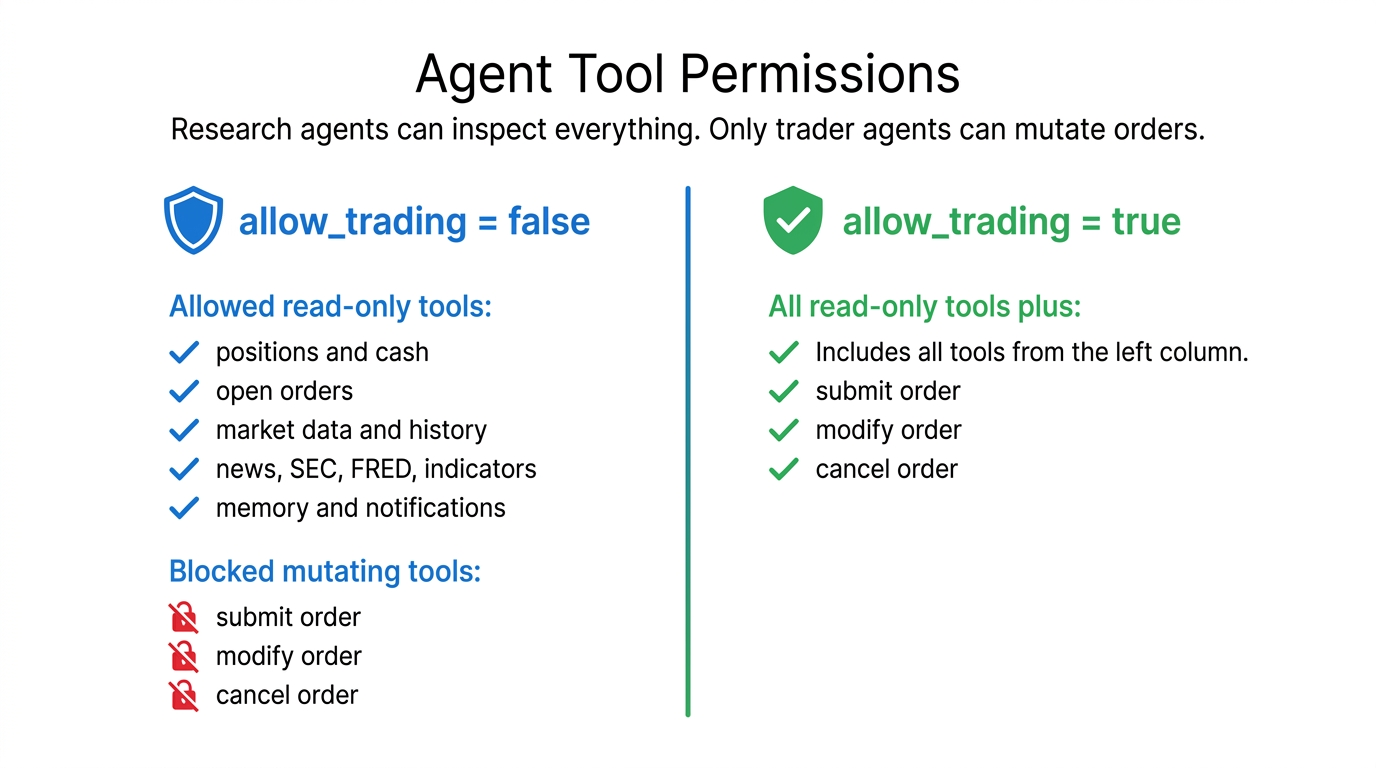
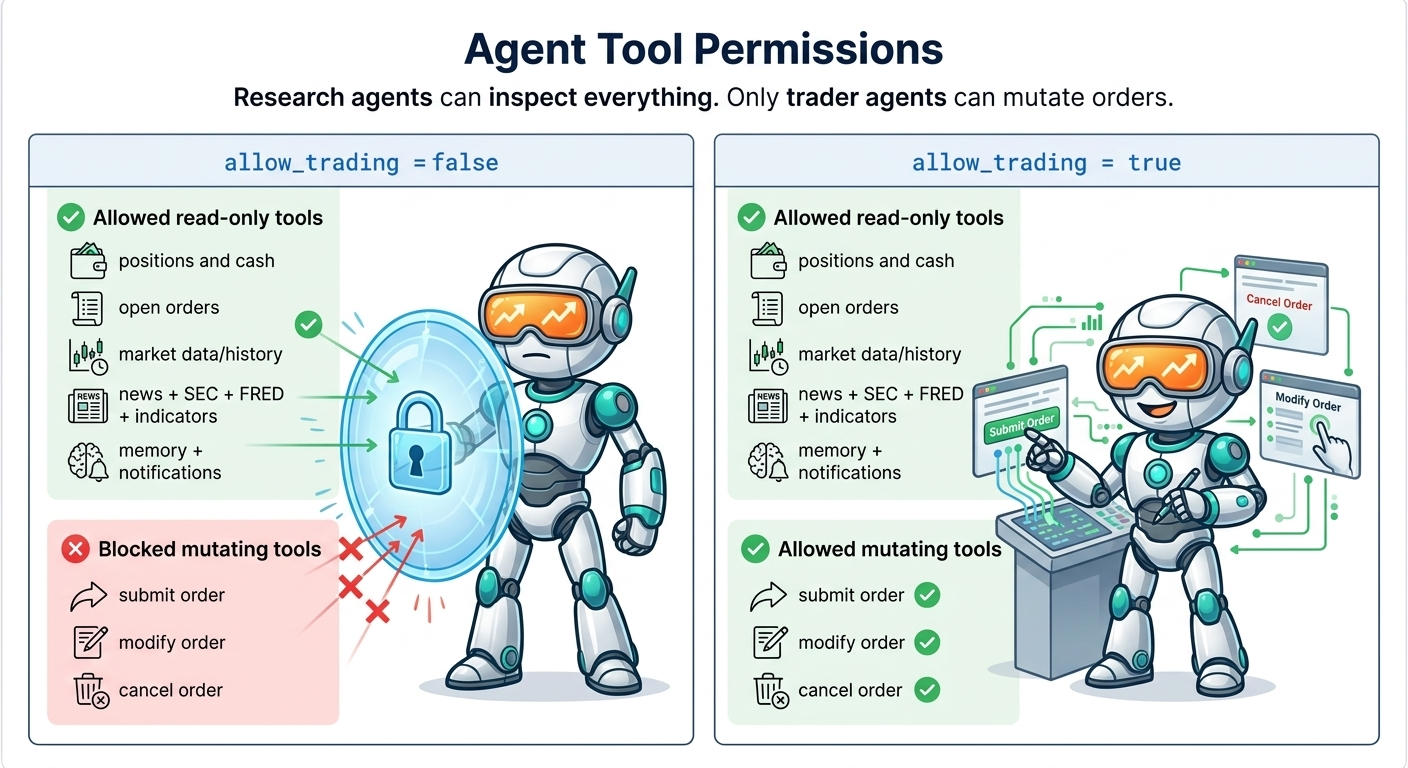
docs: refresh AI agent visuals and positioning

diff --git a/README.md b/README.md
@@ -35,16 +35,24 @@ In that pattern, read-only research agents gather evidence and a trading-enabled
 
 Built-in AI agent tools include market/account state, order inspection, DuckDB queries, documentation search, Alpaca news when credentials exist, technical indicators, SEC fundamentals and filings, FRED macro data, local memory, and Telegram notifications.
 
+<p align="center">
+  <img src="docs/assets/readme/lumibot_agent_flows.png" alt="Lumibot agent flows are plain Python" width="100%">
+</p>
+
 ## Build Without Code on BotSpot
 
 **[BotSpot](https://botspot.trade/?utm_source=github&utm_medium=readme&utm_campaign=lumibot)** is the managed cloud product built on Lumibot. Use it when you want to describe a strategy in plain English, have AI generate Lumibot code, backtest it, and deploy it without managing servers.
 
 - **Build** strategies using natural language -- the AI writes production-ready Lumibot code for you
 - **Backtest** against years of historical data with a single click
-- **Deploy** to live trading with real brokers (Alpaca, Interactive Brokers, and more)
+- **Deploy** to live trading with real brokers including Alpaca, Interactive Brokers, Tradier, Schwab, Tradovate, TopstepX via ProjectX, Bitunix, Coinbase, Kraken, WEEX, KuCoin, Binance, BitMEX, Bybit, and OKX
 - **Browse** a marketplace of proven, community-built strategies you can run immediately
 
 **Start on BotSpot:** [Build, backtest, and deploy AI trading bots](https://botspot.trade/?utm_source=github&utm_medium=readme&utm_campaign=lumibot)
+
+<p align="center">
+  <img src="docs/assets/readme/lumibot_botspot_launch_path.png" alt="Build on Lumibot and launch on BotSpot" width="100%">
+</p>
 
 ## Quick Start
 
@@ -138,6 +146,10 @@ trader.run_all()
 
 Lumibot supports stocks, options, crypto, futures, forex, and indexes across several broker integrations:
 
+<p align="center">
+  <img src="docs/assets/readme/lumibot_brokers_data_sources.png" alt="Lumibot broker and data source integrations" width="100%">
+</p>
+
 - Alpaca
 - Interactive Brokers and Interactive Brokers REST
 - Tradier
@@ -177,6 +189,10 @@ Lumibot includes a built-in AI trading agent runtime. Build agents that run iden
 - Use **DuckDB** for time-series analysis instead of dumping raw bars into prompts
 - Mount external **MCP servers** for news, macro data, filings, or any domain-specific tools
 - Replay identical agent decisions in **backtests** without paying for another model call
+
+<p align="center">
+  <img src="docs/assets/readme/lumibot_point_in_time_tools.png" alt="Point-in-time AI agent tools prevent look-ahead bias" width="100%">
+</p>
 
 Start here:
 - [Agent Documentation](https://lumibot.lumiwealth.com/agents.html)

diff --git a/docsrc/deployment.rst b/docsrc/deployment.rst
@@ -18,7 +18,7 @@ Option A — Deploy on BotSpot (Recommended)
 **Why BotSpot:**
 
 - **No infrastructure to manage.** No servers, no deploy files, no environment-variable setup.
-- **Broker integrations built in.** Alpaca, Interactive Brokers, Tradier, Schwab, and more already wired up.
+- **Broker integrations built in.** Alpaca, Interactive Brokers, Tradier, Schwab, Tradovate, TopstepX via ProjectX, Bitunix, Coinbase, Kraken, WEEX, KuCoin, Binance, BitMEX, Bybit, and OKX have documented Lumibot paths.
 - **Backtest in the browser.** Test your strategy on historical data with one click before going live.
 - **Marketplace of proven strategies.** Browse community strategies and deploy any of them without writing code.
 - **Paper and live trading.** Start in paper mode, switch to live when you are ready.

diff --git a/docsrc/getting_started.rst b/docsrc/getting_started.rst
@@ -24,6 +24,11 @@ At `BotSpot <https://botspot.trade/?utm_source=documentation&utm_medium=referral
 - **Join 2,400+ traders** — Connect with other builders in our Discord community
 - **Take our AI Bootcamp** — Live hands-on training to master automated trading
 
+.. image:: ../docs/assets/readme/lumibot_botspot_launch_path.png
+   :alt: Build on Lumibot and launch on BotSpot
+   :align: center
+   :width: 100%
+
 .. important::
 
    `Start on BotSpot <https://botspot.trade/?utm_source=documentation&utm_medium=referral&utm_campaign=lumibot_getting_started>`_ if you want the managed no-code path.

diff --git a/docsrc/brokers.rst b/docsrc/brokers.rst
@@ -3,6 +3,11 @@ Brokers
 
 There are several different brokers that you can use to trade with Lumibot, and we're adding more as we speak! Learn more about how they work and how to set them up here.
 
+.. image:: ../docs/assets/readme/lumibot_brokers_data_sources.png
+   :alt: Lumibot broker and data source integrations
+   :align: center
+   :width: 100%
+
 .. toctree::
    :maxdepth: 2
    :caption: Contents:

diff --git a/docsrc/macro_data.rst b/docsrc/macro_data.rst
@@ -5,6 +5,9 @@ LumiBot includes native Federal Reserve Economic Data (FRED) macro tools for
 strategies and AI agents. Use these tools for interest rates, inflation,
 employment, growth, liquidity, credit spreads, and market-risk context.
 
+.. image:: ../docs/assets/ai_committee/docs_fred_macro_data.png
+   :alt: FRED macro data tools and point-in-time behavior in Lumibot
+
 Strategy API
 ------------
 

diff --git a/docsrc/agents_flows.rst b/docsrc/agents_flows.rst
@@ -11,6 +11,11 @@ review step, or a full multi-model debate. LumiBot provides the agent runtime,
 built-in tools, point-in-time backtesting, replay artifacts, and order
 permissions. Your strategy decides the flow.
 
+.. image:: ../docs/assets/readme/lumibot_agent_flows.png
+   :alt: Lumibot agent flows are plain Python
+   :align: center
+   :width: 100%
+
 Two Strategy Styles
 -------------------
 
